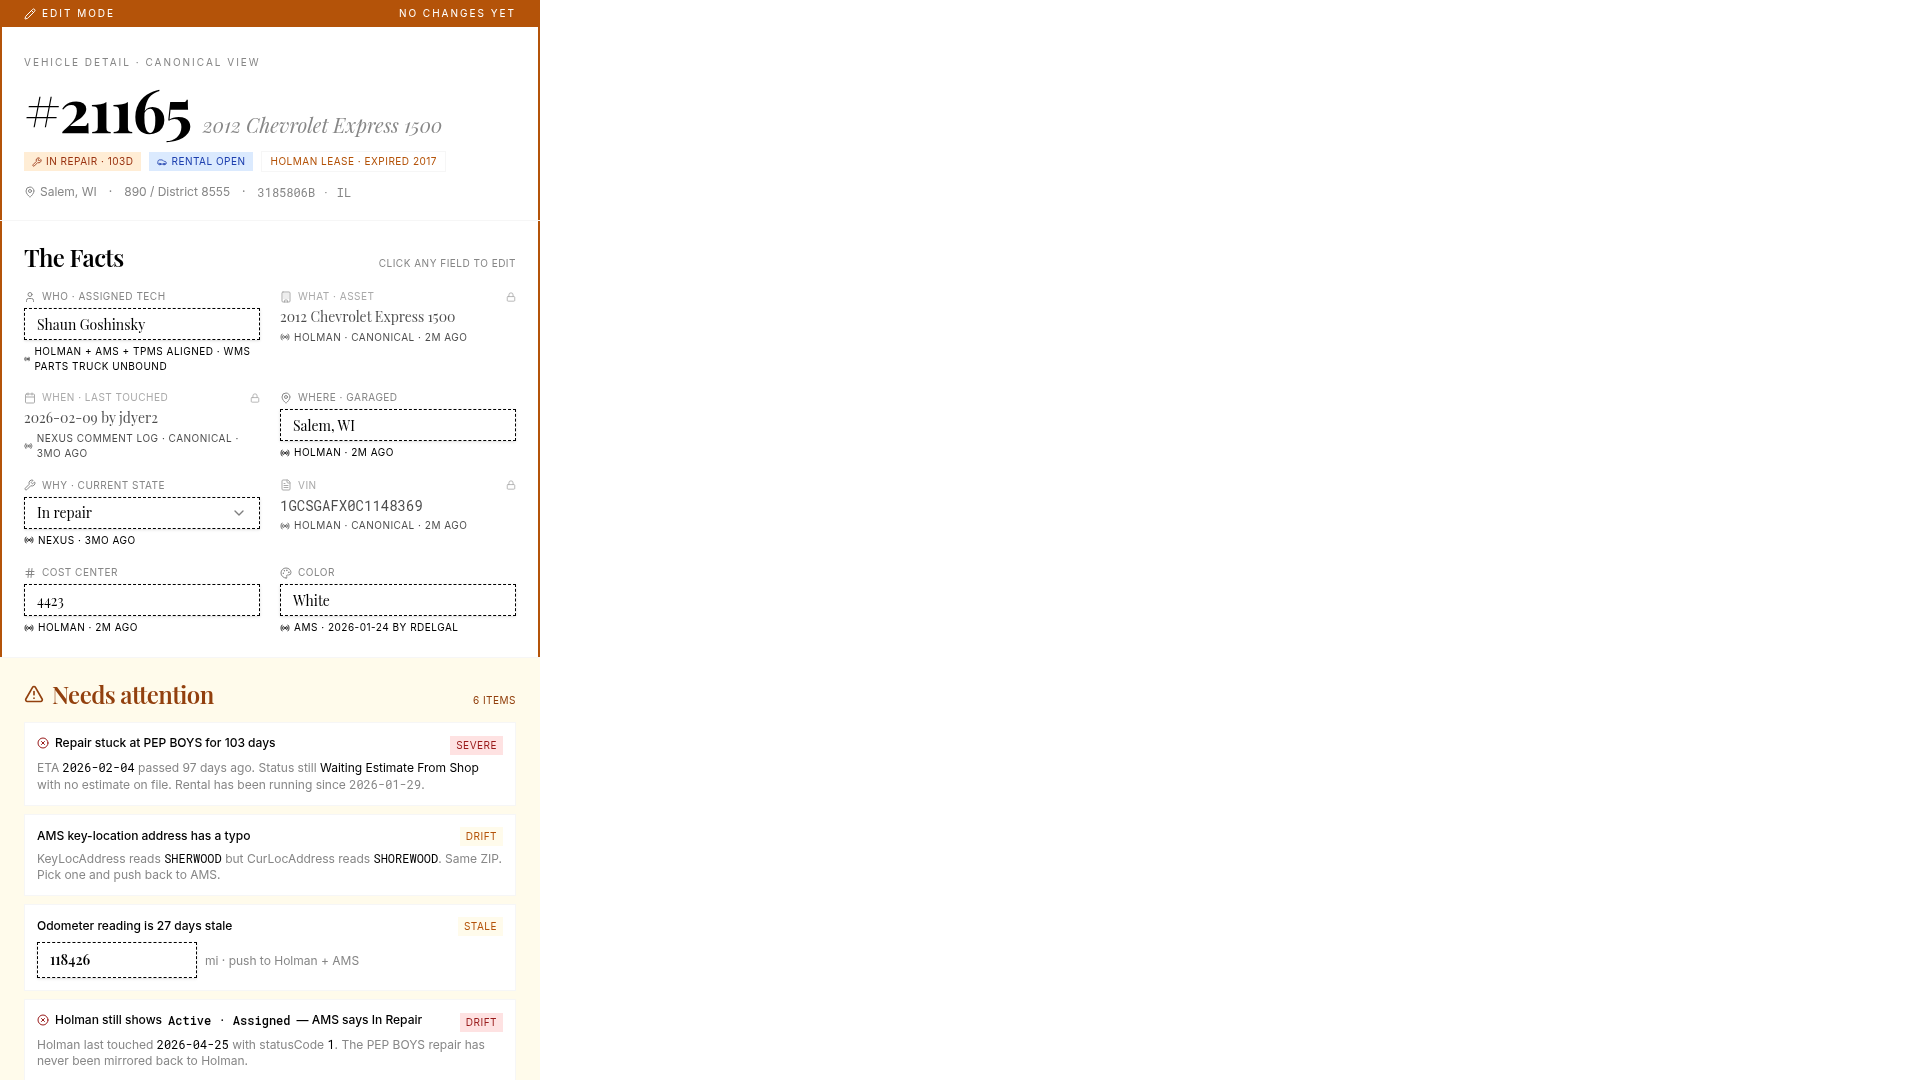
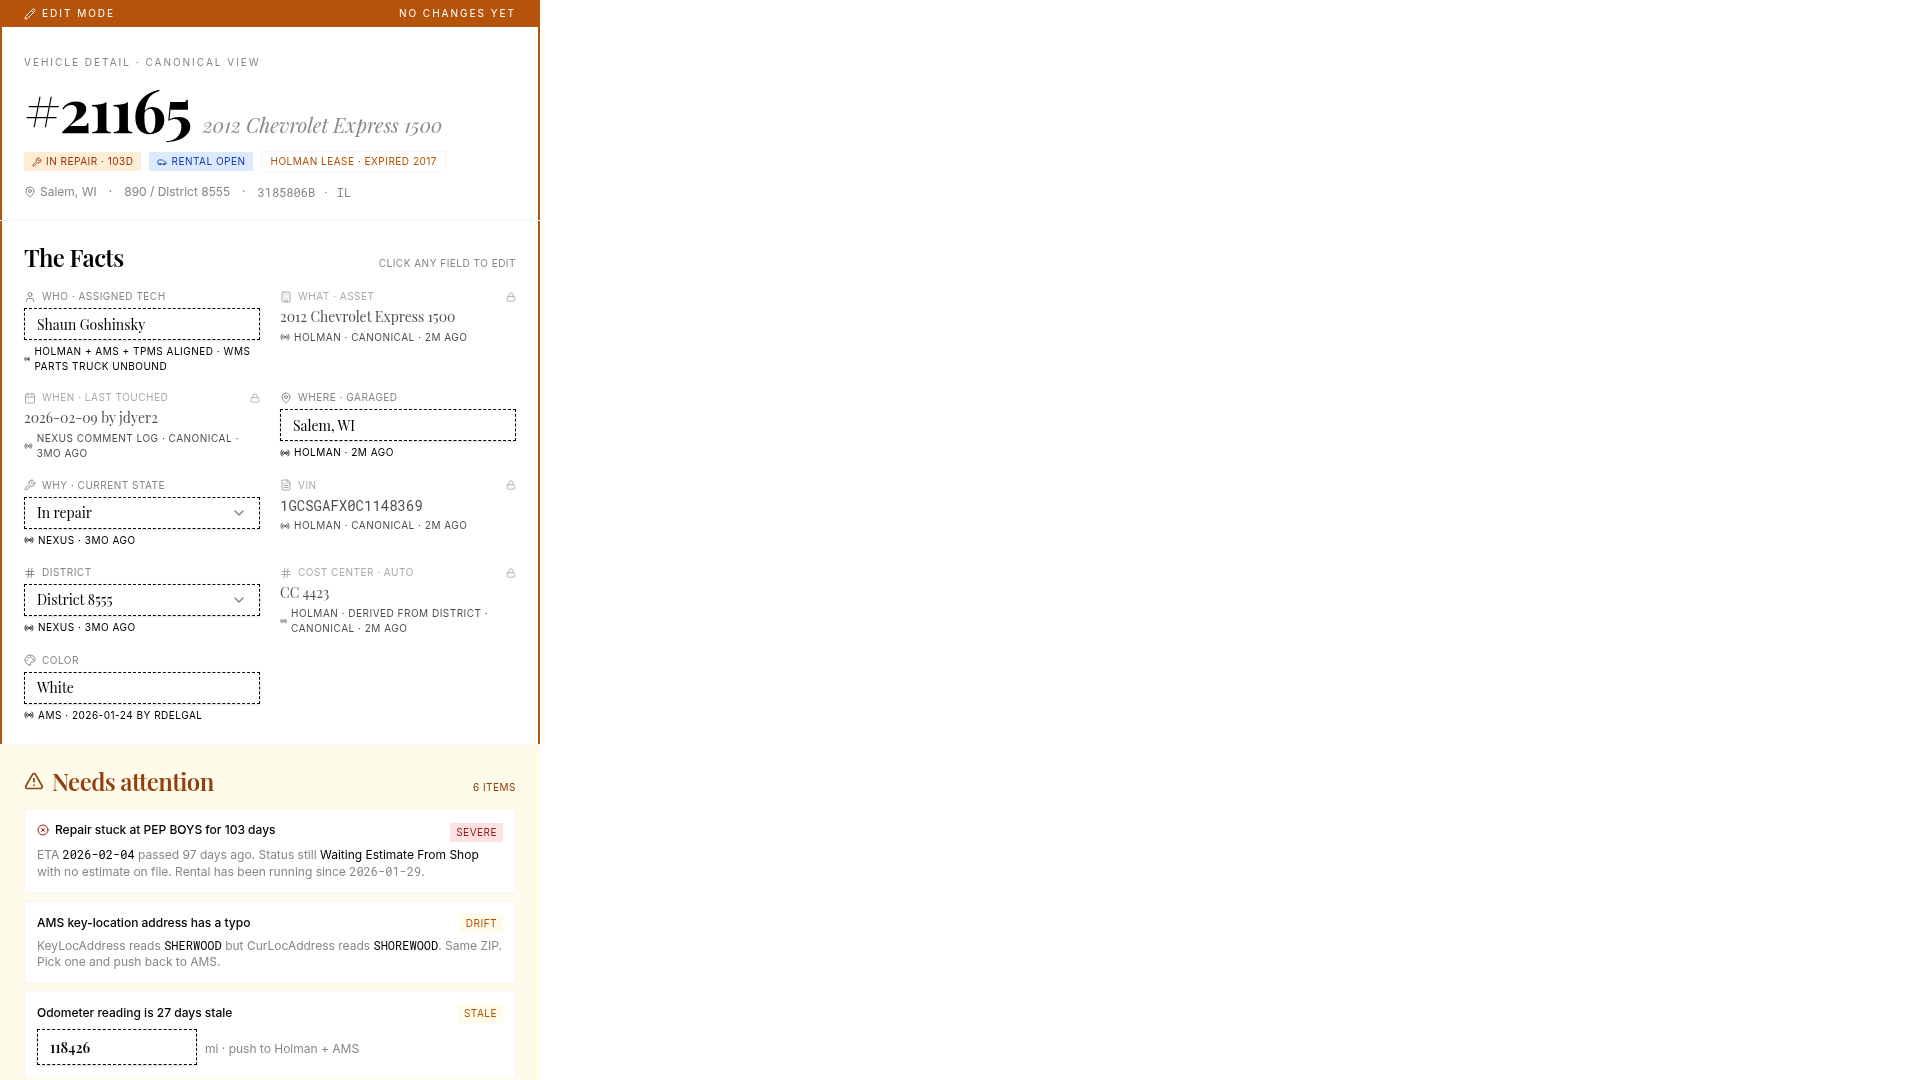
Update vehicle form to derive cost center from district
Modify the vehicle editing form to make District a selectable field and automatically derive the Cost Center based on the selected District, ensuring data consistency and user-friendliness.

Replit-Commit-Author: Agent
Replit-Commit-Session-Id: 1692327c-fbfd-43cc-81eb-17d0d19afbcf
Replit-Commit-Checkpoint-Type: full_checkpoint
Replit-Commit-Event-Id: 8e3838e1-7e25-4baf-b0a5-c703af4f19ba
Replit-Commit-Screenshot-Url: https://storage.googleapis.com/screenshot-production-us-central1/04599bfa-a9af-4cb0-9978-bfecc1959bcf/1692327c-fbfd-43cc-81eb-17d0d19afbcf/xQW0mK3
Replit-Helium-Checkpoint-Created: true

diff --git a/artifacts/mockup-sandbox/src/components/mockups/vehicle-slideout/Variant11.tsx b/artifacts/mockup-sandbox/src/components/mockups/vehicle-slideout/Variant11.tsx
@@ -144,6 +144,20 @@ const STATE_OPTIONS = [
   { value: "unassigned",  label: "Unassigned" },
 ];
 
+// District → Cost Center is canonical in Holman. Cost Center is never
+// edited directly; it is derived from the district the vehicle is bound to.
+const DISTRICT_COST_CENTER: Record<string, string> = {
+  "8555": "4423",
+  "8501": "4180",
+  "8612": "5210",
+  "8744": "4901",
+  "8290": "3815",
+};
+const DISTRICT_OPTIONS = Object.keys(DISTRICT_COST_CENTER).map((d) => ({
+  value: d, label: `District ${d}`,
+}));
+const deriveCC = (district: string) => DISTRICT_COST_CENTER[district] ?? "—";
+
 export function Variant11() {
   const [active, setActive] = useState<PrincipleKey>("update");
   const Icon = PRINCIPLES.find((p) => p.key === active)!.icon;
@@ -153,7 +167,7 @@ export function Variant11() {
     () => ({
       tech: VEHICLE.techHolmanName,
       city: VEHICLE.city,
-      costCenter: VEHICLE.costCenter,
+      district: "8555",
       color: VEHICLE.color ?? "",
       state: VEHICLE.nexusStatus,
       odometer: "118426",
@@ -286,10 +300,15 @@ export function Variant11() {
                 value={VEHICLE.vin}
                 src="Holman" at={VEHICLE.lastHolmanSync}
               />
-              <EditableFactRow
-                icon={Hash} label="Cost Center"
-                value={draft.costCenter} onChange={set("costCenter")} dirty={isDirty("costCenter")}
-                src="Holman" at={VEHICLE.lastHolmanSync}
+              <EditableSelectRow
+                icon={Hash} label="District"
+                value={draft.district} onChange={set("district")} dirty={isDirty("district")}
+                options={DISTRICT_OPTIONS}
+              />
+              <LockedFactRow
+                icon={Hash} label="Cost Center · auto"
+                value={`CC ${deriveCC(draft.district)}${isDirty("district") ? "  (will change)" : ""}`}
+                src="Holman · derived from district" at={VEHICLE.lastHolmanSync}
               />
               <EditableFactRow
                 icon={Palette} label="Color"
@@ -535,14 +554,23 @@ export function Variant11() {
           {active === "review"   && <ReviewBody />}
           {active === "assign"   && <AssignBody />}
           {active === "unassign" && <UnassignBody />}
-          {active === "update"   && (
-            <UpdateActionPanel
-              dirtyKeys={dirtyKeys as string[]}
-              draft={draft}
-              initial={initial}
-              onDiscard={() => setDraft(initial)}
-            />
-          )}
+          {active === "update"   && (() => {
+            // Surface the auto-derived cost-center change alongside the district.
+            const districtDirty = isDirty("district");
+            const augKeys = districtDirty
+              ? [...dirtyKeys, "costCenter"] as string[]
+              : (dirtyKeys as string[]);
+            const augDraft   = { ...draft,   costCenter: deriveCC(draft.district) };
+            const augInitial = { ...initial, costCenter: deriveCC(initial.district) };
+            return (
+              <UpdateActionPanel
+                dirtyKeys={augKeys}
+                draft={augDraft}
+                initial={augInitial}
+                onDiscard={() => setDraft(initial)}
+              />
+            );
+          })()}
         </div>
       </div>
     </div>
@@ -555,7 +583,8 @@ export function Variant11() {
 const FIELD_LABEL: Record<string, string> = {
   tech: "Assigned tech",
   city: "Garaged city",
-  costCenter: "Cost center",
+  district: "District",
+  costCenter: "Cost center · auto",
   color: "Color",
   state: "Current state",
   odometer: "Odometer",
@@ -567,6 +596,8 @@ function formatVal(k: string, v: string) {
     return Number.isFinite(n) ? `${n.toLocaleString()} mi` : v;
   }
   if (k === "state") return v.replace(/_/g, " ");
+  if (k === "district") return `District ${v}`;
+  if (k === "costCenter") return `CC ${v}`;
   return v || "—";
 }
 
@@ -584,7 +615,7 @@ function UpdateActionPanel({
     <div>
       {!hasChanges ? (
         <div className="text-xs text-muted-foreground">
-          Click any field above to edit it. Only Cost Center, Garaged city, Tech, Color, Current state, and Odometer are editable; VIN, Year/Make/Model, and the AMS-only fields stay locked.
+          Click any field above to edit it. Editable: Tech, Garaged city, District, Color, Current state, Odometer. Cost Center is auto-derived from District. VIN and Year/Make/Model stay locked.
         </div>
       ) : (
         <div className="space-y-1.5 mb-3">
